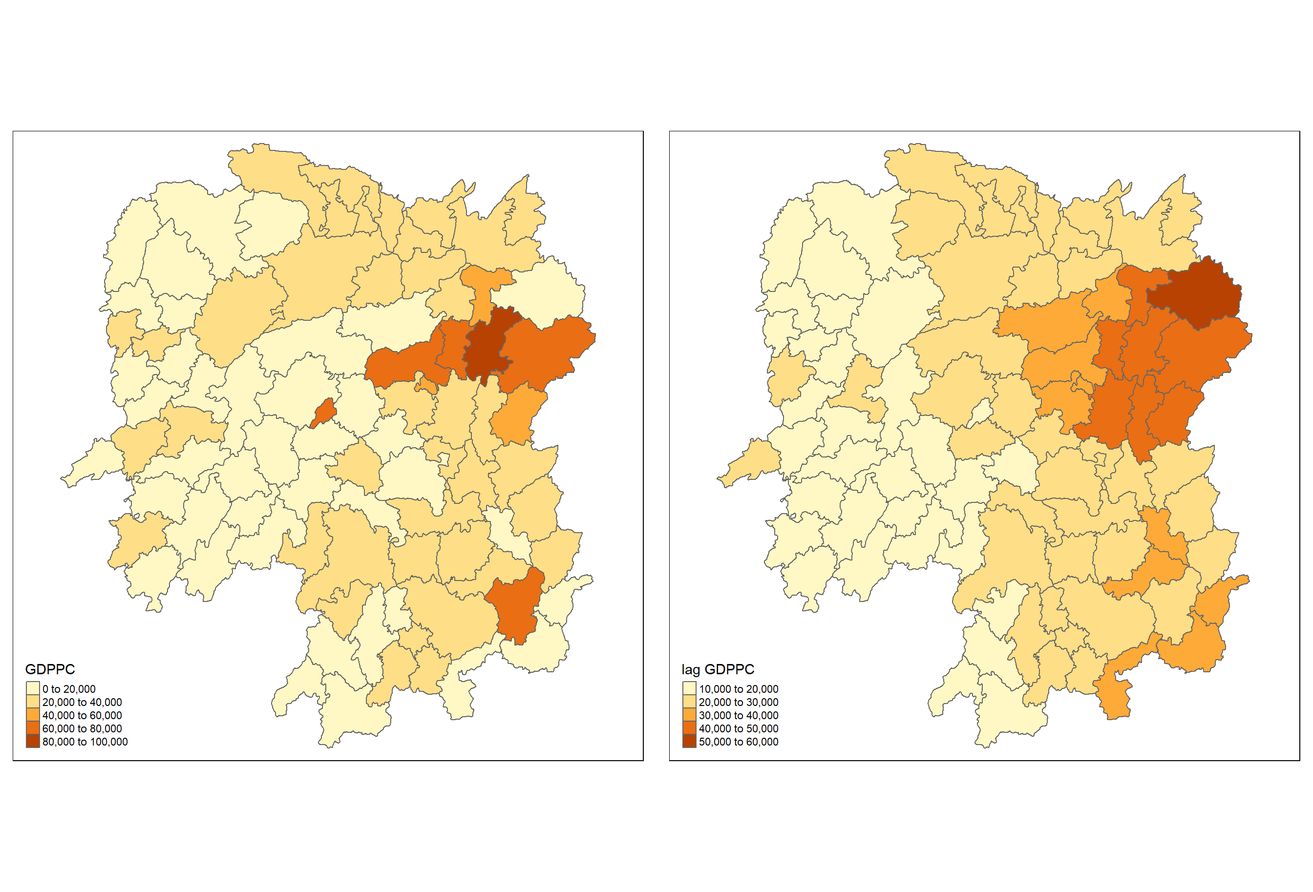
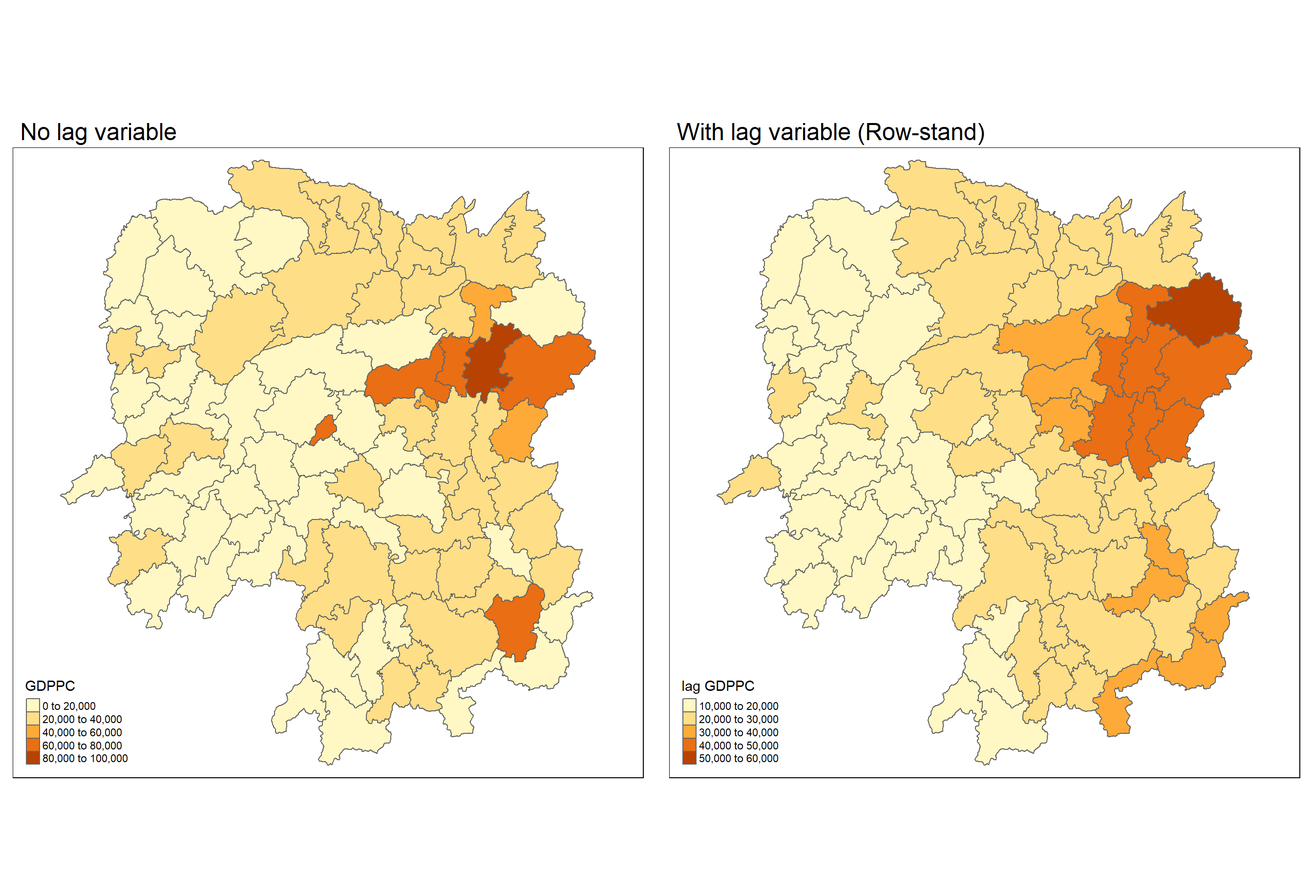
commit

diff --git a/_site/Hands-on_Ex2/Hands-on_Ex2_1.html b/_site/Hands-on_Ex2/Hands-on_Ex2_1.html
@@ -300,10 +300,7 @@ code span.wa { color: #60a0b0; font-weight: bold; font-style: italic; } /* Warni
   <ul class="collapse">
   <li><a href="#spatial-lag-with-row-standardized-weights" id="toc-spatial-lag-with-row-standardized-weights" class="nav-link" data-scroll-target="#spatial-lag-with-row-standardized-weights">8.8.1 Spatial lag with row-standardized weights</a></li>
   </ul></li>
-  <li><a href="#theories" id="toc-theories" class="nav-link" data-scroll-target="#theories">Theories</a>
-  <ul class="collapse">
-  <li><a href="#section" id="toc-section" class="nav-link" data-scroll-target="#section"></a></li>
-  </ul></li>
+  <li><a href="#theories" id="toc-theories" class="nav-link" data-scroll-target="#theories">Theories</a></li>
   </ul>
 </nav>
     </div>
@@ -1152,10 +1149,12 @@ Link number distribution:
 </section>
 <section id="computing-fixed-distance-weight-matrix" class="level3">
 <h3 class="anchored" data-anchor-id="computing-fixed-distance-weight-matrix">8.6.2 Computing <u>fixed</u> distance weight matrix</h3>
-<p>(Earlier, we had used <code>poly2nb(hunan, queen=TRUE/FALSE)</code> to define neighbours using Queen or Rook method, resulting in <code>wm_q</code> and <code>wm_r</code>)</p>
-<p>Now, to define neighbours using distance, we use the <code>dnearneigh()</code> ,</p>
+<p>(Earlier, we had used <code>poly2nb(hunan, queen=TRUE/FALSE)</code> to define neighbours using Queen or Rook method, resulting in <code>wm_q</code> and <code>wm_r.</code>)</p>
+<p>(We also have <code>k1</code> of ‘nb’ class where each polygon has 1 nb. Additionally, we used summary(unlist(nbdists())) to calculate the distance between furthest neighbours.)</p>
+<p>Now, to define neighbours using a <strong>distance threshold</strong>, we use the <code>dnearneigh()</code> ,</p>
 <ul>
 <li><em>longlat argument: TRUE if point coordinates are <strong>geographical</strong> longitude-latitude decimal degrees (WSG84)</em></li>
+<li>some polygons have more than 1 nb, but all polygons have at least 1 nb here due to distance threshold.</li>
 </ul>
 <div class="cell">
 <div class="sourceCode cell-code" id="cb53"><pre class="sourceCode numberSource r number-lines code-with-copy"><code class="sourceCode r"><span id="cb53-1"><a href="#cb53-1"></a>wm_d62 <span class="ot">&lt;-</span> <span class="fu">dnearneigh</span>(coords, <span class="dv">0</span>, <span class="dv">62</span>, <span class="at">longlat=</span><span class="cn">TRUE</span> )</span>
@@ -1556,11 +1555,7 @@ Non-symmetric neighbours list</code></pre>
 <h2 class="anchored" data-anchor-id="weights-based-on-inverse-distance-method"><strong>8.7 Weights based on Inverse Distance Method</strong></h2>
 <p>In this section, we will learn how to derive a spatial weight matrix based on Inversed Distance method. <strong>This will assign greater weightage to closer polygons, use this if we know that closer proximity will result in more spatial interaction.</strong></p>
 <p>Earlier, we applied nbdists() <code>nbdists(knn2nb(knearneigh(coords, k=1)), coords, longlat = TRUE)</code> to compute the distance of one’s nearest neighbour.</p>
-<p>First, we will compute the distances between areas (defined using Queen contiguity method) by using <a href="https://r-spatial.github.io/spdep/reference/nbdists.html"><em>nbdists()</em></a> of <strong>spdep</strong>.</p>
-<div class="panel-tabset">
-<ul class="nav nav-tabs" role="tablist"><li class="nav-item" role="presentation"><a class="nav-link active" id="tabset-2-1-tab" data-bs-toggle="tab" data-bs-target="#tabset-2-1" role="tab" aria-controls="tabset-2-1" aria-selected="true">Queen’s neighbours distance</a></li><li class="nav-item" role="presentation"><a class="nav-link" id="tabset-2-2-tab" data-bs-toggle="tab" data-bs-target="#tabset-2-2" role="tab" aria-controls="tabset-2-2" aria-selected="false">Fixed’s neighbours distance (NYX)</a></li></ul>
-<div class="tab-content">
-<div id="tabset-2-1" class="tab-pane active" role="tabpanel" aria-labelledby="tabset-2-1-tab">
+<p>First, we will compute the distances between areas (defined using Queen contiguity method) by using <a href="https://r-spatial.github.io/spdep/reference/nbdists.html"><em>nbdists()</em></a> of <strong>spdep</strong>. <strong>Class of dist: nbdist</strong></p>
 <div class="cell">
 <div class="sourceCode cell-code" id="cb72"><pre class="sourceCode numberSource r number-lines code-with-copy"><code class="sourceCode r"><span id="cb72-1"><a href="#cb72-1"></a>dist <span class="ot">&lt;-</span> <span class="fu">nbdists</span>(wm_q, coords, <span class="at">longlat=</span><span class="cn">TRUE</span>)</span>
 <span id="cb72-2"><a href="#cb72-2"></a><span class="fu">head</span>(dist,<span class="dv">3</span>)</span></code><button title="Copy to Clipboard" class="code-copy-button"><i class="bi"></i></button></pre></div>
@@ -1575,28 +1570,10 @@ Non-symmetric neighbours list</code></pre>
 [1] 25.53398 35.43536 27.05778 71.64530</code></pre>
 </div>
 </div>
-</div>
-<div id="tabset-2-2" class="tab-pane" role="tabpanel" aria-labelledby="tabset-2-2-tab">
+<p>Now compute the inverse distances for all polygons to their neighbours. <strong>Class of ids: matrix of list</strong></p>
 <div class="cell">
-<div class="sourceCode cell-code" id="cb74"><pre class="sourceCode numberSource r number-lines code-with-copy"><code class="sourceCode r"><span id="cb74-1"><a href="#cb74-1"></a><span class="fu">head</span>(<span class="fu">nbdists</span>(wm_d62, coords, <span class="at">longlat=</span><span class="cn">TRUE</span>),<span class="dv">3</span>)</span></code><button title="Copy to Clipboard" class="code-copy-button"><i class="bi"></i></button></pre></div>
-<div class="cell-output cell-output-stdout">
-<pre><code>[[1]]
-[1] 25.53398 54.91802 52.58627 35.61352 48.15609
-
-[[2]]
-[1] 56.67944 51.92312 43.03114 58.16151
-
-[[3]]
-[1] 25.53398 35.43536 27.05778 58.73243</code></pre>
-</div>
-</div>
-</div>
-</div>
-</div>
-<p>For queen’s method, now compute the inverse distances for all polygons to their neighbours</p>
-<div class="cell">
-<div class="sourceCode cell-code" id="cb76"><pre class="sourceCode numberSource r number-lines code-with-copy"><code class="sourceCode r"><span id="cb76-1"><a href="#cb76-1"></a>ids <span class="ot">&lt;-</span> <span class="fu">lapply</span>(dist, <span class="cf">function</span>(x) <span class="dv">1</span><span class="sc">/</span>(x))</span>
-<span id="cb76-2"><a href="#cb76-2"></a><span class="fu">head</span>(ids,<span class="dv">3</span>)</span></code><button title="Copy to Clipboard" class="code-copy-button"><i class="bi"></i></button></pre></div>
+<div class="sourceCode cell-code" id="cb74"><pre class="sourceCode numberSource r number-lines code-with-copy"><code class="sourceCode r"><span id="cb74-1"><a href="#cb74-1"></a>ids <span class="ot">&lt;-</span> <span class="fu">lapply</span>(dist, <span class="cf">function</span>(x) <span class="dv">1</span><span class="sc">/</span>(x))</span>
+<span id="cb74-2"><a href="#cb74-2"></a><span class="fu">head</span>(ids,<span class="dv">3</span>)</span></code><button title="Copy to Clipboard" class="code-copy-button"><i class="bi"></i></button></pre></div>
 <div class="cell-output cell-output-stdout">
 <pre><code>[[1]]
 [1] 0.01535405 0.03916350 0.01820896 0.02807922 0.01145113
@@ -1614,8 +1591,8 @@ Non-symmetric neighbours list</code></pre>
 <p>Arguments</p>
 <table class="table">
 <colgroup>
-<col style="width: 26%">
-<col style="width: 73%">
+<col style="width: 29%">
+<col style="width: 70%">
 </colgroup>
 <thead>
 <tr class="header">
@@ -1646,10 +1623,14 @@ Non-symmetric neighbours list</code></pre>
 <li><p>drawback of this method is that polygon along the edge will base their lagged values on fewer polygons, thus over estimating the true nature of spatial autocorrelation in the data. Next time can consider other more robust options are available, notably style=“B” &lt;- basic binary coding</p></li>
 <li><p>The zero.policy=TRUE option allows for lists of non-neighbors. This should be used with caution since the user may not be aware of missing neighbors in their dataset however, a zero.policy of FALSE would return an error. <strong>Class of rsmq_q = ‘listw’ and ‘nb’</strong></p></li>
 </ul>
+<div class="panel-tabset">
+<ul class="nav nav-tabs" role="tablist"><li class="nav-item" role="presentation"><a class="nav-link active" id="tabset-2-1-tab" data-bs-toggle="tab" data-bs-target="#tabset-2-1" role="tab" aria-controls="tabset-2-1" aria-selected="true">style = ‘W’</a></li><li class="nav-item" role="presentation"><a class="nav-link" id="tabset-2-2-tab" data-bs-toggle="tab" data-bs-target="#tabset-2-2" role="tab" aria-controls="tabset-2-2" aria-selected="false">style = ‘B’</a></li></ul>
+<div class="tab-content">
+<div id="tabset-2-1" class="tab-pane active" role="tabpanel" aria-labelledby="tabset-2-1-tab">
 <div class="cell">
-<div class="sourceCode cell-code" id="cb78"><pre class="sourceCode numberSource r number-lines code-with-copy"><code class="sourceCode r"><span id="cb78-1"><a href="#cb78-1"></a><span class="co"># wm_q is binary matrix</span></span>
-<span id="cb78-2"><a href="#cb78-2"></a>rswm_q <span class="ot">&lt;-</span> <span class="fu">nb2listw</span>(wm_q, <span class="at">style =</span> <span class="st">'W'</span>, <span class="at">zero.policy =</span> <span class="cn">TRUE</span>)</span>
-<span id="cb78-3"><a href="#cb78-3"></a>rswm_q</span></code><button title="Copy to Clipboard" class="code-copy-button"><i class="bi"></i></button></pre></div>
+<div class="sourceCode cell-code" id="cb76"><pre class="sourceCode numberSource r number-lines code-with-copy"><code class="sourceCode r"><span id="cb76-1"><a href="#cb76-1"></a><span class="co"># wm_q is a matrix containing nb indexes</span></span>
+<span id="cb76-2"><a href="#cb76-2"></a>rswm_q <span class="ot">&lt;-</span> <span class="fu">nb2listw</span>(wm_q, <span class="at">style =</span> <span class="st">'W'</span>, <span class="at">zero.policy =</span> <span class="cn">TRUE</span>)</span>
+<span id="cb76-3"><a href="#cb76-3"></a>rswm_q</span></code><button title="Copy to Clipboard" class="code-copy-button"><i class="bi"></i></button></pre></div>
 <div class="cell-output cell-output-stdout">
 <pre><code>Characteristics of weights list object:
 Neighbour list object:
@@ -1662,6 +1643,18 @@ Weights style: W
 Weights constants summary:
    n   nn S0       S1       S2
 W 88 7744 88 37.86334 365.9147</code></pre>
+</div>
+</div>
+</div>
+<div id="tabset-2-2" class="tab-pane" role="tabpanel" aria-labelledby="tabset-2-2-tab">
+<div class="cell">
+<div class="sourceCode cell-code" id="cb78"><pre class="sourceCode numberSource r number-lines code-with-copy"><code class="sourceCode r"><span id="cb78-1"><a href="#cb78-1"></a><span class="fu">nb2listw</span>(wm_q, <span class="at">style =</span> <span class="st">'B'</span>, <span class="at">zero.policy =</span> <span class="cn">TRUE</span>)<span class="sc">$</span>weights[<span class="dv">1</span>]</span></code><button title="Copy to Clipboard" class="code-copy-button"><i class="bi"></i></button></pre></div>
+<div class="cell-output cell-output-stdout">
+<pre><code>[[1]]
+[1] 1 1 1 1 1</code></pre>
+</div>
+</div>
+</div>
 </div>
 </div>
 <div class="cell">
@@ -1687,7 +1680,7 @@ W 88 7744 88 37.86334 365.9147</code></pre>
 </div>
 </div>
 <p>Explanation of above: Each neighbor is assigned a 0.125 of the total weight. This means that when R computes the average neighboring income values, each <strong>neighbor’s income will be multiplied by 0.125 before being tallied.</strong></p>
-<p>Using the same queen’s method, we can also derive a row standardised inverse-distance weight matrix by using the code chunk below. Recall <code>ids</code> contains inverse-distances to neighbours , originally from queens <code>wm_q</code> which is a binary matrix. <strong>Class of rswm_q is ‘listw’ and ‘nb’</strong></p>
+<p>Using the same queen’s method, we can also derive a (row standardised ?) inverse-distance weight matrix by using the code chunk below. Recall <code>ids</code> contains inverse-distances to neighbours , originally from queens <code>wm_q</code> which is a binary matrix. <strong>Class of rswm_ids is ‘listw’ and ‘nb’.</strong> It contains 3 lists, ‘style’ of class character ,‘neighbours’ of class nb, ‘weights’ of class nb</p>
 <div class="cell">
 <div class="sourceCode cell-code" id="cb86"><pre class="sourceCode numberSource r number-lines code-with-copy"><code class="sourceCode r"><span id="cb86-1"><a href="#cb86-1"></a>rswm_ids <span class="ot">&lt;-</span> <span class="fu">nb2listw</span>(wm_q, <span class="at">glist=</span>ids, <span class="at">style =</span><span class="st">'B'</span>, <span class="at">zero.policy=</span><span class="cn">TRUE</span>)</span>
 <span id="cb86-2"><a href="#cb86-2"></a>rswm_ids</span></code><button title="Copy to Clipboard" class="code-copy-button"><i class="bi"></i></button></pre></div>
@@ -1720,6 +1713,24 @@ B 88 7744 8.786867 0.3776535 3.8137</code></pre>
 0.008218 0.015088 0.018739 0.019614 0.022823 0.040338 </code></pre>
 </div>
 </div>
+<p>Finally, a comparison of the weights for polygon 1 across three spatial weights methods:</p>
+<div class="cell">
+<div class="sourceCode cell-code" id="cb92"><pre class="sourceCode numberSource r number-lines code-with-copy"><code class="sourceCode r"><span id="cb92-1"><a href="#cb92-1"></a>a <span class="ot">&lt;-</span> <span class="fu">unlist</span>(rswm_q<span class="sc">$</span>weights[<span class="dv">1</span>])</span>
+<span id="cb92-2"><a href="#cb92-2"></a>b <span class="ot">&lt;-</span> <span class="fu">unlist</span>(<span class="fu">nb2listw</span>(wm_q, <span class="at">style =</span> <span class="st">'B'</span>, <span class="at">zero.policy =</span> <span class="cn">TRUE</span>)<span class="sc">$</span>weights[<span class="dv">1</span>])</span>
+<span id="cb92-3"><a href="#cb92-3"></a>c <span class="ot">&lt;-</span> <span class="fu">unlist</span>(rswm_ids<span class="sc">$</span>weights[<span class="dv">1</span>])</span>
+<span id="cb92-4"><a href="#cb92-4"></a></span>
+<span id="cb92-5"><a href="#cb92-5"></a>weights_comparison <span class="ot">&lt;-</span> <span class="fu">as.data.frame</span>(<span class="fu">cbind</span>(a,b,c))</span>
+<span id="cb92-6"><a href="#cb92-6"></a><span class="fu">colnames</span>(weights_comparison) <span class="ot">&lt;-</span> <span class="fu">c</span>(<span class="st">"row standardised"</span>, <span class="st">"binary"</span>, <span class="st">'inverse distance'</span>)</span>
+<span id="cb92-7"><a href="#cb92-7"></a>weights_comparison</span></code><button title="Copy to Clipboard" class="code-copy-button"><i class="bi"></i></button></pre></div>
+<div class="cell-output cell-output-stdout">
+<pre><code>  row standardised binary inverse distance
+1              0.2      1       0.01535405
+2              0.2      1       0.03916350
+3              0.2      1       0.01820896
+4              0.2      1       0.02807922
+5              0.2      1       0.01145113</code></pre>
+</div>
+</div>
 </section>
 </section>
 <section id="application-of-spatial-weight-matrix" class="level2">
@@ -1740,8 +1751,8 @@ B 88 7744 8.786867 0.3776535 3.8137</code></pre>
 <li><p>Recalled in the previous section, we retrieved the GDPPC of these five countries (neighbours of poly1 using queen method) by using the code chunk below.</p></li>
 </ul>
 <div class="cell">
-<div class="sourceCode cell-code" id="cb92"><pre class="sourceCode numberSource r number-lines code-with-copy"><code class="sourceCode r"><span id="cb92-1"><a href="#cb92-1"></a>x1 <span class="ot">&lt;-</span> wm_q[[<span class="dv">1</span>]]</span>
-<span id="cb92-2"><a href="#cb92-2"></a>hunan<span class="sc">$</span>GDPPC[<span class="fu">c</span>(x1)]</span></code><button title="Copy to Clipboard" class="code-copy-button"><i class="bi"></i></button></pre></div>
+<div class="sourceCode cell-code" id="cb94"><pre class="sourceCode numberSource r number-lines code-with-copy"><code class="sourceCode r"><span id="cb94-1"><a href="#cb94-1"></a>x1 <span class="ot">&lt;-</span> wm_q[[<span class="dv">1</span>]]</span>
+<span id="cb94-2"><a href="#cb94-2"></a>hunan<span class="sc">$</span>GDPPC[<span class="fu">c</span>(x1)]</span></code><button title="Copy to Clipboard" class="code-copy-button"><i class="bi"></i></button></pre></div>
 <div class="cell-output cell-output-stdout">
 <pre><code>[1] 20981 34592 24473 21311 22879</code></pre>
 </div>
@@ -1751,8 +1762,8 @@ B 88 7744 8.786867 0.3776535 3.8137</code></pre>
 <li><p>22724.80 is the average GDPPC for poly2 based on equal weightage (0.2) of all its five neighbours . 24143.25 for poly3 based on equal weightage (0.25) based on four neighbours.</p></li>
 </ul>
 <div class="cell">
-<div class="sourceCode cell-code" id="cb94"><pre class="sourceCode numberSource r number-lines code-with-copy"><code class="sourceCode r"><span id="cb94-1"><a href="#cb94-1"></a>GDPPC.lag <span class="ot">&lt;-</span> <span class="fu">lag.listw</span>(rswm_q, hunan<span class="sc">$</span>GDPPC)</span>
-<span id="cb94-2"><a href="#cb94-2"></a>GDPPC.lag</span></code><button title="Copy to Clipboard" class="code-copy-button"><i class="bi"></i></button></pre></div>
+<div class="sourceCode cell-code" id="cb96"><pre class="sourceCode numberSource r number-lines code-with-copy"><code class="sourceCode r"><span id="cb96-1"><a href="#cb96-1"></a>GDPPC.lag <span class="ot">&lt;-</span> <span class="fu">lag.listw</span>(rswm_q, hunan<span class="sc">$</span>GDPPC)</span>
+<span id="cb96-2"><a href="#cb96-2"></a>GDPPC.lag</span></code><button title="Copy to Clipboard" class="code-copy-button"><i class="bi"></i></button></pre></div>
 <div class="cell-output cell-output-stdout">
 <pre><code> [1] 24847.20 22724.80 24143.25 27737.50 27270.25 21248.80 43747.00 33582.71
  [9] 45651.17 32027.62 32671.00 20810.00 25711.50 30672.33 33457.75 31689.20
@@ -1770,42 +1781,65 @@ B 88 7744 8.786867 0.3776535 3.8137</code></pre>
 <p>We can append the spatially lag GDPPC values onto hunan sf data frame by using the code chunk below.</p>
 <p>First, create <code>lag.list</code> that contains two individual lists, namely NAME_3 column in <code>hunan</code> and the lag variable. Next, transform both lists into a dataframe. Rename the column headers. Perform a left join with hunan and lag.res will automatically use <code>NAME_3</code> column as the join column.</p>
 <div class="cell">
-<div class="sourceCode cell-code" id="cb96"><pre class="sourceCode numberSource r number-lines code-with-copy"><code class="sourceCode r"><span id="cb96-1"><a href="#cb96-1"></a>lag.list <span class="ot">&lt;-</span> <span class="fu">list</span>(hunan<span class="sc">$</span>NAME_3, <span class="fu">lag.listw</span>(rswm_q, hunan<span class="sc">$</span>GDPPC))</span>
-<span id="cb96-2"><a href="#cb96-2"></a>lag.res <span class="ot">&lt;-</span> <span class="fu">as.data.frame</span>(lag.list)</span>
-<span id="cb96-3"><a href="#cb96-3"></a><span class="fu">colnames</span>(lag.res) <span class="ot">&lt;-</span> <span class="fu">c</span>(<span class="st">"NAME_3"</span>, <span class="st">"lag GDPPC"</span>)</span>
-<span id="cb96-4"><a href="#cb96-4"></a>hunan <span class="ot">&lt;-</span> <span class="fu">left_join</span>(hunan,lag.res)</span></code><button title="Copy to Clipboard" class="code-copy-button"><i class="bi"></i></button></pre></div>
+<div class="sourceCode cell-code" id="cb98"><pre class="sourceCode numberSource r number-lines code-with-copy"><code class="sourceCode r"><span id="cb98-1"><a href="#cb98-1"></a>lag.list <span class="ot">&lt;-</span> <span class="fu">list</span>(hunan<span class="sc">$</span>NAME_3, <span class="fu">lag.listw</span>(rswm_q, hunan<span class="sc">$</span>GDPPC))</span>
+<span id="cb98-2"><a href="#cb98-2"></a>lag.res <span class="ot">&lt;-</span> <span class="fu">as.data.frame</span>(lag.list)</span>
+<span id="cb98-3"><a href="#cb98-3"></a><span class="fu">colnames</span>(lag.res) <span class="ot">&lt;-</span> <span class="fu">c</span>(<span class="st">"NAME_3"</span>, <span class="st">"lag GDPPC"</span>)</span>
+<span id="cb98-4"><a href="#cb98-4"></a>hunan <span class="ot">&lt;-</span> <span class="fu">left_join</span>(hunan,lag.res)</span>
+<span id="cb98-5"><a href="#cb98-5"></a></span>
+<span id="cb98-6"><a href="#cb98-6"></a><span class="fu">head</span>(<span class="fu">as_tibble</span>(hunan),<span class="dv">3</span>)</span></code><button title="Copy to Clipboard" class="code-copy-button"><i class="bi"></i></button></pre></div>
+<div class="cell-output cell-output-stdout">
+<pre><code># A tibble: 3 × 8
+  NAME_2   ID_3 NAME_3  ENGTYPE_3   County  GDPPC `lag GDPPC`
+  &lt;chr&gt;   &lt;int&gt; &lt;chr&gt;   &lt;chr&gt;       &lt;chr&gt;   &lt;dbl&gt;       &lt;dbl&gt;
+1 Changde 21098 Anxiang County      Anxiang 23667      24847.
+2 Changde 21100 Hanshou County      Hanshou 20981      22725.
+3 Changde 21101 Jinshi  County City Jinshi  34592      24143.
+# ℹ 1 more variable: geometry &lt;POLYGON [°]&gt;</code></pre>
+</div>
+<div class="sourceCode cell-code" id="cb100"><pre class="sourceCode numberSource r number-lines code-with-copy"><code class="sourceCode r"><span id="cb100-1"><a href="#cb100-1"></a><span class="co"># head(hunan,3) %&gt;%  kable()</span></span></code><button title="Copy to Clipboard" class="code-copy-button"><i class="bi"></i></button></pre></div>
 </div>
 <p>The following table shows the average neighboring income values (stored in the Inc.lag object) for each county.</p>
-<div class="cell">
-<div class="sourceCode cell-code" id="cb97"><pre class="sourceCode numberSource r number-lines code-with-copy"><code class="sourceCode r"><span id="cb97-1"><a href="#cb97-1"></a><span class="fu">head</span>(hunan,<span class="dv">3</span>)</span></code><button title="Copy to Clipboard" class="code-copy-button"><i class="bi"></i></button></pre></div>
-<div class="cell-output cell-output-stdout">
-<pre><code>Simple feature collection with 3 features and 7 fields
-Geometry type: POLYGON
-Dimension:     XY
-Bounding box:  xmin: 111.7027 ymin: 28.61762 xmax: 112.3013 ymax: 29.77344
-Geodetic CRS:  WGS 84
-   NAME_2  ID_3  NAME_3   ENGTYPE_3  County GDPPC lag GDPPC
-1 Changde 21098 Anxiang      County Anxiang 23667  24847.20
-2 Changde 21100 Hanshou      County Hanshou 20981  22724.80
-3 Changde 21101  Jinshi County City  Jinshi 34592  24143.25
-                        geometry
-1 POLYGON ((112.0625 29.75523...
-2 POLYGON ((112.2288 29.11684...
-3 POLYGON ((111.8927 29.6013,...</code></pre>
-</div>
-</div>
 <p>Next, we will plot both the GDPPC and spatial lag GDPPC for comparison using the code chunk below.</p>
 <div class="cell" data-fig.asp="0.68">
-<div class="sourceCode cell-code" id="cb99"><pre class="sourceCode numberSource r number-lines code-with-copy"><code class="sourceCode r"><span id="cb99-1"><a href="#cb99-1"></a>gdppc <span class="ot">&lt;-</span> <span class="fu">qtm</span>(hunan, <span class="st">'GDPPC'</span>) <span class="sc">+</span></span>
-<span id="cb99-2"><a href="#cb99-2"></a>    <span class="fu">tm_layout</span>(<span class="at">legend.height =</span> <span class="fl">0.2</span>,</span>
-<span id="cb99-3"><a href="#cb99-3"></a>              <span class="at">legend.width=</span><span class="fl">0.2</span>)</span>
-<span id="cb99-4"><a href="#cb99-4"></a>lag_gdppc <span class="ot">&lt;-</span> <span class="fu">qtm</span>(hunan, <span class="st">'lag GDPPC'</span>) <span class="sc">+</span></span>
-<span id="cb99-5"><a href="#cb99-5"></a>  <span class="fu">tm_layout</span>(<span class="at">legend.height =</span> <span class="fl">0.2</span>,</span>
-<span id="cb99-6"><a href="#cb99-6"></a>            <span class="at">legend.width=</span><span class="fl">0.4</span>)</span>
-<span id="cb99-7"><a href="#cb99-7"></a></span>
-<span id="cb99-8"><a href="#cb99-8"></a><span class="fu">tmap_arrange</span>(gdppc, lag_gdppc, <span class="at">asp=</span><span class="dv">1</span>, <span class="at">ncol=</span><span class="dv">2</span>)</span></code><button title="Copy to Clipboard" class="code-copy-button"><i class="bi"></i></button></pre></div>
+<div class="sourceCode cell-code" id="cb101"><pre class="sourceCode numberSource r number-lines code-with-copy"><code class="sourceCode r"><span id="cb101-1"><a href="#cb101-1"></a>gdppc <span class="ot">&lt;-</span> <span class="fu">qtm</span>(hunan, <span class="st">'GDPPC'</span>) <span class="sc">+</span></span>
+<span id="cb101-2"><a href="#cb101-2"></a>    <span class="fu">tm_layout</span>(<span class="at">main.title=</span><span class="st">'No lag variable'</span>,</span>
+<span id="cb101-3"><a href="#cb101-3"></a>              <span class="at">legend.height =</span> <span class="fl">0.2</span>,</span>
+<span id="cb101-4"><a href="#cb101-4"></a>              <span class="at">legend.width=</span><span class="fl">0.2</span>)</span>
+<span id="cb101-5"><a href="#cb101-5"></a>lag_gdppc <span class="ot">&lt;-</span> <span class="fu">qtm</span>(hunan, <span class="st">'lag GDPPC'</span>) <span class="sc">+</span></span>
+<span id="cb101-6"><a href="#cb101-6"></a>  <span class="fu">tm_layout</span>(<span class="at">main.title=</span><span class="st">'With lag variable (Row-stand)'</span>,</span>
+<span id="cb101-7"><a href="#cb101-7"></a>            <span class="at">legend.height =</span> <span class="fl">0.2</span>,</span>
+<span id="cb101-8"><a href="#cb101-8"></a>            <span class="at">legend.width=</span><span class="fl">0.4</span>)</span>
+<span id="cb101-9"><a href="#cb101-9"></a></span>
+<span id="cb101-10"><a href="#cb101-10"></a><span class="fu">tmap_arrange</span>(gdppc, lag_gdppc, <span class="at">asp=</span><span class="dv">1</span>, <span class="at">ncol=</span><span class="dv">2</span>)</span></code><button title="Copy to Clipboard" class="code-copy-button"><i class="bi"></i></button></pre></div>
 <div class="cell-output-display">
 <p><img src="Hands-on_Ex2_1_files/figure-html/unnamed-chunk-55-1.png" class="img-fluid" width="1344"></p>
+</div>
+</div>
+<p>Compute lag variable using rswm_ids (inverse-distance method)</p>
+<div class="cell" data-fig.asp="0.68">
+<div class="sourceCode cell-code" id="cb102"><pre class="sourceCode numberSource r number-lines code-with-copy"><code class="sourceCode r"><span id="cb102-1"><a href="#cb102-1"></a>lag.list<span class="fl">.2</span> <span class="ot">&lt;-</span> <span class="fu">list</span>(hunan<span class="sc">$</span>NAME_3, <span class="fu">lag.listw</span>(rswm_ids, hunan<span class="sc">$</span>GDPPC))</span>
+<span id="cb102-2"><a href="#cb102-2"></a>lag.res<span class="fl">.2</span> <span class="ot">&lt;-</span> <span class="fu">as.data.frame</span>(lag.list<span class="fl">.2</span>)</span>
+<span id="cb102-3"><a href="#cb102-3"></a><span class="fu">colnames</span>(lag.res<span class="fl">.2</span>) <span class="ot">&lt;-</span> <span class="fu">c</span>(<span class="st">"NAME_3"</span>, <span class="st">"lag GDPPC ID"</span>)</span>
+<span id="cb102-4"><a href="#cb102-4"></a>hunan <span class="ot">&lt;-</span> <span class="fu">left_join</span>(hunan,lag.res<span class="fl">.2</span>)</span>
+<span id="cb102-5"><a href="#cb102-5"></a></span>
+<span id="cb102-6"><a href="#cb102-6"></a><span class="fu">head</span>(<span class="fu">as_tibble</span>(hunan),<span class="dv">3</span>)</span></code><button title="Copy to Clipboard" class="code-copy-button"><i class="bi"></i></button></pre></div>
+<div class="cell-output cell-output-stdout">
+<pre><code># A tibble: 3 × 9
+  NAME_2   ID_3 NAME_3  ENGTYPE_3   County  GDPPC `lag GDPPC` `lag GDPPC ID`
+  &lt;chr&gt;   &lt;int&gt; &lt;chr&gt;   &lt;chr&gt;       &lt;chr&gt;   &lt;dbl&gt;       &lt;dbl&gt;          &lt;dbl&gt;
+1 Changde 21098 Anxiang County      Anxiang 23667      24847.          2983.
+2 Changde 21100 Hanshou County      Hanshou 20981      22725.          2092.
+3 Changde 21101 Jinshi  County City Jinshi  34592      24143.          2881.
+# ℹ 1 more variable: geometry &lt;POLYGON [°]&gt;</code></pre>
+</div>
+<div class="sourceCode cell-code" id="cb104"><pre class="sourceCode numberSource r number-lines code-with-copy"><code class="sourceCode r"><span id="cb104-1"><a href="#cb104-1"></a>lag_gdppc_id <span class="ot">&lt;-</span> <span class="fu">qtm</span>(hunan, <span class="st">'lag GDPPC ID'</span>) <span class="sc">+</span></span>
+<span id="cb104-2"><a href="#cb104-2"></a>  <span class="fu">tm_layout</span>(<span class="at">main.title=</span><span class="st">'With lag variable (Inv_dist)'</span>,</span>
+<span id="cb104-3"><a href="#cb104-3"></a>            <span class="at">legend.height =</span> <span class="fl">0.2</span>,</span>
+<span id="cb104-4"><a href="#cb104-4"></a>            <span class="at">legend.width=</span><span class="fl">0.4</span>)</span>
+<span id="cb104-5"><a href="#cb104-5"></a></span>
+<span id="cb104-6"><a href="#cb104-6"></a><span class="fu">tmap_arrange</span>(lag_gdppc, lag_gdppc_id, <span class="at">asp=</span><span class="dv">1</span>, <span class="at">ncol=</span><span class="dv">2</span>)</span></code><button title="Copy to Clipboard" class="code-copy-button"><i class="bi"></i></button></pre></div>
+<div class="cell-output-display">
+<p><img src="Hands-on_Ex2_1_files/figure-html/unnamed-chunk-56-1.png" class="img-fluid" width="1344"></p>
 </div>
 </div>
 <div class="cell" data-fig.asp="0.68">
@@ -1815,11 +1849,10 @@ Geodetic CRS:  WGS 84
 </section>
 <section id="theories" class="level2">
 <h2 class="anchored" data-anchor-id="theories">Theories</h2>
-<section id="section" class="level3">
-<h3 class="anchored" data-anchor-id="section"></h3>
+<p>Summary of deriving spatial weights matrix</p>
+<p><img src="images/Summary of deriving weights matrix.png" class="img-fluid"></p>
 
 
-</section>
 </section>
 
 </main> <!-- /main -->
